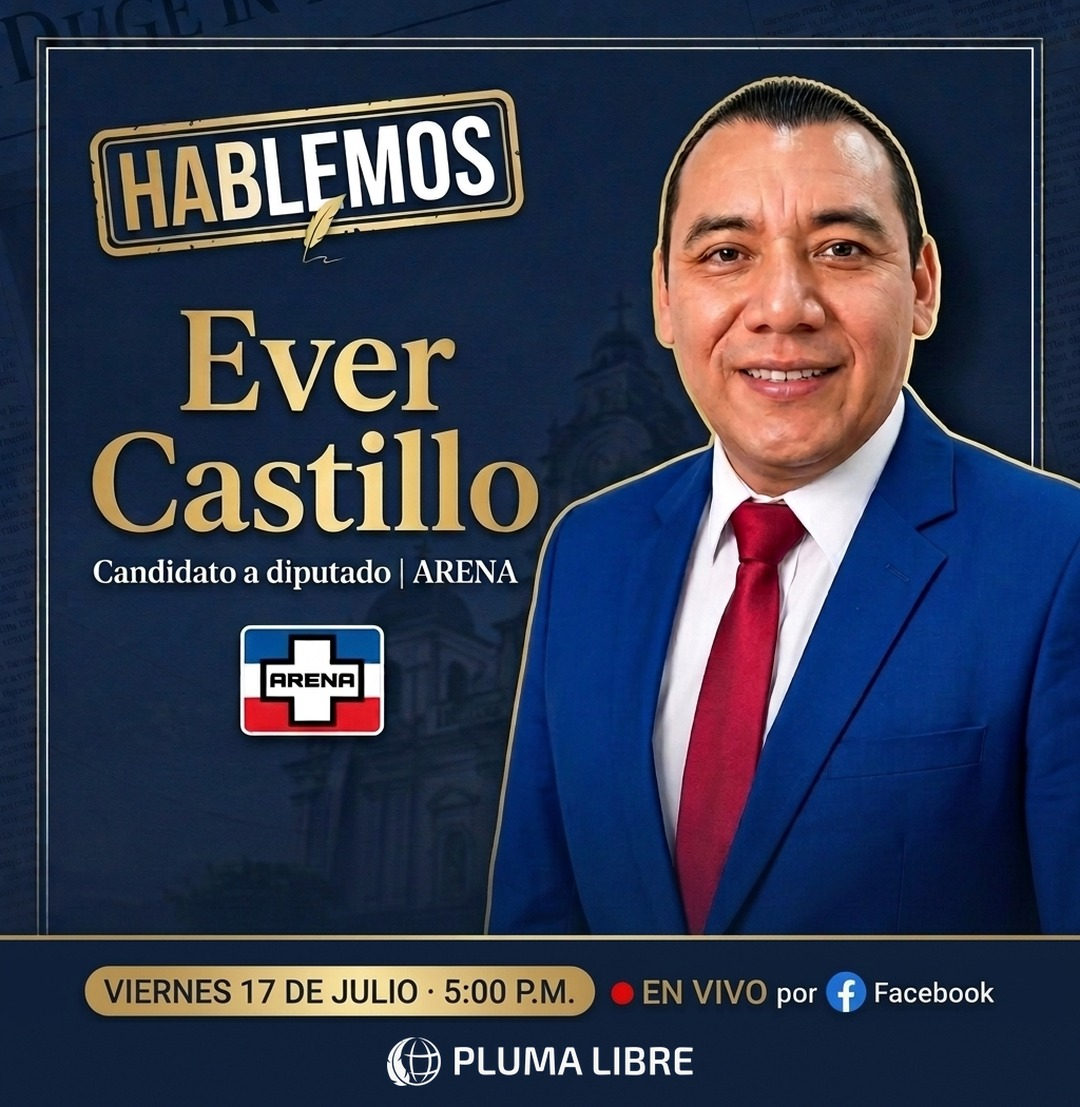
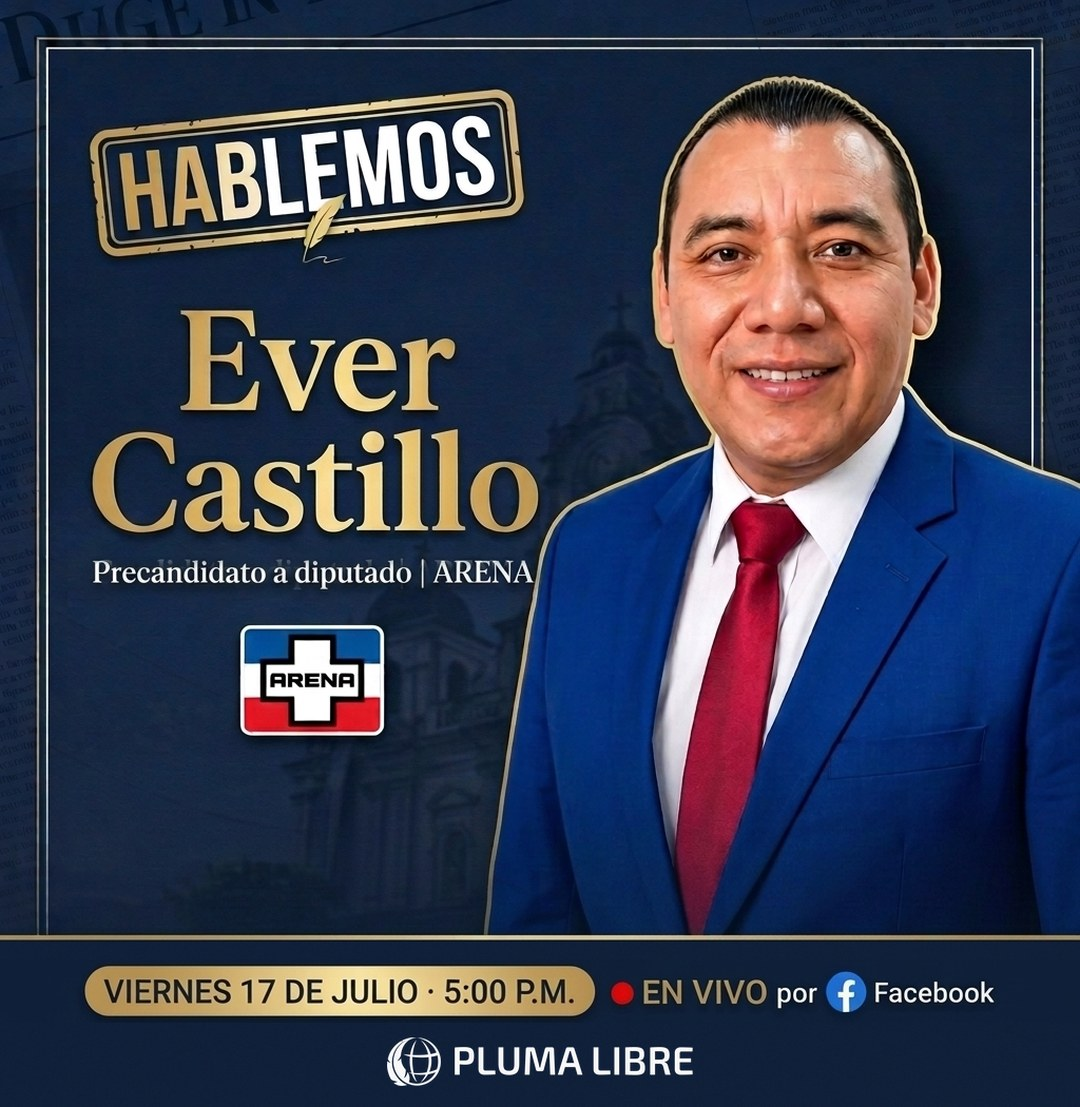
Corrige: Ever Castillo es precandidato (no candidato) — texto y arte
Claude-Session: https://claude.ai/code/session_015uJ6K41gRCDMSNBTyxZNf8

Changed region(s): [[0.0917, 0.4914, 0.4889, 0.5528]]

diff --git a/articulos/hablemos-ever-castillo-arena-entrevista-en-vivo.html b/articulos/hablemos-ever-castillo-arena-entrevista-en-vivo.html
@@ -1,7 +1,8 @@
-<!DOCTYPE html><html lang="es"><head><meta charset="UTF-8"><meta name="viewport" content="width=device-width,initial-scale=1.0"><title>«Hablemos» recibe a Ever Castillo, candidato a diputado de ARENA por Sonsonate — Pluma Libre</title><meta name="description" content="La entrevista se transmitirá en vivo este viernes 17 de julio, a las 5:00 p.m., por el Facebook de Pluma Libre; la audiencia podrá dejar sus preguntas en los comentarios."><meta name="theme-color" content="#081A41"><link rel="canonical" href="https://plumalibre.press/articulos/hablemos-ever-castillo-arena-entrevista-en-vivo.html"><meta property="og:type" content="article"><meta property="og:title" content="«Hablemos» recibe a Ever Castillo, candidato a diputado de ARENA por Sonsonate"><meta property="og:description" content="La entrevista se transmitirá en vivo este viernes 17 de julio, a las 5:00 p.m., por el Facebook de Pluma Libre; la audiencia podrá dejar sus preguntas en los comentarios."><meta property="og:image" content="https://plumalibre.press/assets/nota-politica-hablemos-ever.jpg"><meta property="og:site_name" content="Pluma Libre"><meta property="article:published_time" content="2026-07-16"><script type="application/ld+json">{"@context":"https://schema.org","@type":"NewsArticle","headline":"«Hablemos» recibe a Ever Castillo, candidato a diputado de ARENA por Sonsonate","datePublished":"2026-07-16","author":{"@type":"Organization","name":"Pluma Libre"},"publisher":{"@type":"Organization","name":"Pluma Libre","logo":{"@type":"ImageObject","url":"https://plumalibre.press/assets/logo-simbolo.png"}}}</script><script>(function(){try{var p=new URLSearchParams(location.search);if(p.get("pl_no_track")==="1"){localStorage.setItem("pl_no_track","1");history.replaceState({},"",location.pathname+location.hash);}if(p.get("pl_track")==="1"){localStorage.removeItem("pl_no_track");history.replaceState({},"",location.pathname+location.hash);}if(localStorage.getItem("pl_no_track")==="1"){window["ga-disable-G-TZRTJLP5KT"]=true;}}catch(e){}})();</script><script async src="https://www.googletagmanager.com/gtag/js?id=G-TZRTJLP5KT"></script><script>window.dataLayer=window.dataLayer||[];function gtag(){dataLayer.push(arguments);}gtag("js",new Date());gtag("config","G-TZRTJLP5KT");</script><link rel="icon" href="../assets/favicon.ico" sizes="any"><link rel="icon" type="image/png" sizes="32x32" href="../assets/favicon-32x32.png"><link rel="icon" type="image/png" sizes="192x192" href="../assets/favicon-192x192.png"><link rel="apple-touch-icon" href="../assets/apple-touch-icon.png"><link rel="manifest" href="/manifest.webmanifest"><meta name="apple-mobile-web-app-capable" content="yes"><meta name="apple-mobile-web-app-status-bar-style" content="black-translucent"><meta name="apple-mobile-web-app-title" content="Pluma Libre"><meta name="mobile-web-app-capable" content="yes"><link rel="preconnect" href="https://fonts.googleapis.com"><link rel="preconnect" href="https://fonts.gstatic.com" crossorigin><link href="https://fonts.googleapis.com/css2?family=Newsreader:opsz,wght@6..72,400;6..72,600;6..72,700&family=Outfit:wght@400;500;600;700&display=swap" rel="stylesheet"><link rel="stylesheet" href="../style.css"></head><body class="article-page"><div class="top-bar"><div class="wrap"><span id="fecha"></span><a href="https://www.facebook.com/plumalibre.press/" target="_blank" rel="noopener" aria-label="Facebook"><svg width="14" height="14" fill="currentColor" viewBox="0 0 24 24"><path d="M24 12.073c0-6.627-5.373-12-12-12s-12 5.373-12 12c0 5.99 4.388 10.954 10.125 11.854v-8.385H7.078v-3.47h3.047V9.43c0-3.007 1.792-4.669 4.533-4.669 1.312 0 2.686.235 2.686.235v2.953H15.83c-1.491 0-1.956.925-1.956 1.874v2.25h3.328l-.532 3.47h-2.796v8.385C19.612 23.027 24 18.062 24 12.073z"/></svg></a></div></div><header class="header"><div class="wrap"><a href="../index.html" class="logo"><img src="../assets/logo-simbolo.png" alt="Pluma Libre" class="logo-simbolo" width="40" height="40"><div class="logo-text"><h1><img src="../assets/logo-wordmark.png" alt="PLUMA LIBRE" class="logo-wordmark"></h1></div></a><button class="menu-btn" id="menuBtn" aria-label="Menú"><span></span><span></span><span></span></button><nav class="nav" id="nav"><ul><li><a href="../index.html">Inicio</a></li><li><a href="../secciones/politico.html">Política</a></li><li><a href="../secciones/economico.html">Economía</a></li><li><a href="../secciones/deportivo.html">Deportes</a></li><li><a href="../secciones/social.html">Social</a></li><li><a href="../secciones/religioso.html">Religión</a></li><li><a href="../secciones/cultural.html">Cultura</a></li><li><a href="../secciones/internacional.html">Internacional</a></li><li><a href="../sobre-nosotros.html">Nosotros</a></li></ul></nav></div></header><main><div class="wrap"><div class="article-header"><span class="badge badge-brand">Política</span><h1>«Hablemos» recibe a Ever Castillo, candidato a diputado de ARENA por Sonsonate</h1><p class="subtitle">La entrevista se transmitirá en vivo este viernes 17 de julio, a las 5:00 p.m., por el Facebook de Pluma Libre; la audiencia podrá dejar sus preguntas en los comentarios.</p><div class="article-meta"><strong>Por Pluma Libre</strong> · 16 de julio, 2026 · Sonsonate</div></div><figure class="article-img"><img src="../assets/nota-politica-hablemos-ever.jpg" alt="«Hablemos» recibe a Ever Castillo, candidato a diputado de ARENA por Sonsonate" loading="eager"><figcaption>Ever Castillo, candidato a diputado de ARENA por Sonsonate, será el invitado de «Hablemos». Imagen: Pluma Libre.</figcaption></figure><div class="article-body"><p>El espacio de entrevistas «Hablemos», de Pluma Libre, tendrá como invitado de esta semana a Ever Castillo, candidato a diputado por el partido ARENA en el departamento de Sonsonate. La conversación se transmitirá en vivo este viernes 17 de julio, a partir de las 5:00 de la tarde, en la página de Facebook del medio.</p>
+<!DOCTYPE html><html lang="es"><head><meta charset="UTF-8"><meta name="viewport" content="width=device-width,initial-scale=1.0"><title>«Hablemos» recibe a Ever Castillo, precandidato a diputado de ARENA por Sonsonate — Pluma Libre</title><meta name="description" content="La entrevista se transmitirá en vivo este viernes 17 de julio, a las 5:00 p.m., por el Facebook de Pluma Libre; la audiencia podrá dejar sus preguntas en los comentarios."><meta name="theme-color" content="#081A41"><link rel="canonical" href="https://plumalibre.press/articulos/hablemos-ever-castillo-arena-entrevista-en-vivo.html"><meta property="og:type" content="article"><meta property="og:title" content="«Hablemos» recibe a Ever Castillo, precandidato a diputado de ARENA por Sonsonate"><meta property="og:description" content="La entrevista se transmitirá en vivo este viernes 17 de julio, a las 5:00 p.m., por el Facebook de Pluma Libre; la audiencia podrá dejar sus preguntas en los comentarios."><meta property="og:image" content="https://plumalibre.press/assets/nota-politica-hablemos-ever-og.jpg">
+<meta property="og:image:width" content="1200">
+<meta property="og:image:height" content="630"><meta property="og:site_name" content="Pluma Libre"><meta property="article:published_time" content="2026-07-16"><script type="application/ld+json">{"@context":"https://schema.org","@type":"NewsArticle","headline":"«Hablemos» recibe a Ever Castillo, precandidato a diputado de ARENA por Sonsonate","datePublished":"2026-07-16","image":"https://plumalibre.press/assets/nota-politica-hablemos-ever.jpg","author":{"@type":"Organization","name":"Pluma Libre"},"publisher":{"@type":"Organization","name":"Pluma Libre","logo":{"@type":"ImageObject","url":"https://plumalibre.press/assets/logo-simbolo.png"}}}</script><script async src="https://www.googletagmanager.com/gtag/js?id=G-TZRTJLP5KT"></script><script>window.dataLayer=window.dataLayer||[];function gtag(){dataLayer.push(arguments);}gtag("js",new Date());gtag("config","G-TZRTJLP5KT");</script><link rel="icon" href="../assets/favicon.ico" sizes="any"><link rel="icon" type="image/png" sizes="32x32" href="../assets/favicon-32x32.png"><link rel="icon" type="image/png" sizes="192x192" href="../assets/favicon-192x192.png"><link rel="apple-touch-icon" href="../assets/apple-touch-icon.png"><link rel="manifest" href="/manifest.webmanifest"><meta name="apple-mobile-web-app-capable" content="yes"><meta name="apple-mobile-web-app-status-bar-style" content="black-translucent"><meta name="apple-mobile-web-app-title" content="Pluma Libre"><meta name="mobile-web-app-capable" content="yes"><link rel="preconnect" href="https://fonts.googleapis.com"><link rel="preconnect" href="https://fonts.gstatic.com" crossorigin><link href="https://fonts.googleapis.com/css2?family=Newsreader:opsz,wght@6..72,400;6..72,600;6..72,700&family=Outfit:wght@400;500;600;700&display=swap" rel="stylesheet"><link rel="stylesheet" href="../style.css"></head><body class="article-page"><div class="top-bar"><div class="wrap"><span id="fecha"></span><a href="https://www.facebook.com/plumalibre.press/" target="_blank" rel="noopener" aria-label="Facebook"><svg width="14" height="14" fill="currentColor" viewBox="0 0 24 24"><path d="M24 12.073c0-6.627-5.373-12-12-12s-12 5.373-12 12c0 5.99 4.388 10.954 10.125 11.854v-8.385H7.078v-3.47h3.047V9.43c0-3.007 1.792-4.669 4.533-4.669 1.312 0 2.686.235 2.686.235v2.953H15.83c-1.491 0-1.956.925-1.956 1.874v2.25h3.328l-.532 3.47h-2.796v8.385C19.612 23.027 24 18.062 24 12.073z"/></svg></a></div></div><header class="header"><div class="wrap"><a href="../index.html" class="logo"><img src="../assets/logo-simbolo.png" alt="Pluma Libre" class="logo-simbolo" width="40" height="40"><div class="logo-text"><h1><img src="../assets/logo-wordmark.png" alt="PLUMA LIBRE" class="logo-wordmark"></h1></div></a><button class="menu-btn" id="menuBtn" aria-label="Menú"><span></span><span></span><span></span></button><nav class="nav" id="nav"><ul><li><a href="../index.html">Inicio</a></li><li><a href="../secciones/politico.html">Política</a></li><li><a href="../secciones/economico.html">Economía</a></li><li><a href="../secciones/deportivo.html">Deportes</a></li><li><a href="../secciones/social.html">Social</a></li><li><a href="../secciones/religioso.html">Religión</a></li><li><a href="../secciones/cultural.html">Cultura</a></li><li><a href="../secciones/internacional.html">Internacional</a></li><li><a href="../sobre-nosotros.html">Nosotros</a></li></ul></nav></div></header><main><div class="wrap"><div class="article-header"><span class="badge badge-brand">Política</span><h1>«Hablemos» recibe a Ever Castillo, precandidato a diputado de ARENA por Sonsonate</h1><p class="subtitle">La entrevista se transmitirá en vivo este viernes 17 de julio, a las 5:00 p.m., por el Facebook de Pluma Libre; la audiencia podrá dejar sus preguntas en los comentarios.</p><div class="article-meta"><strong>Por Pluma Libre</strong> · 16 de julio, 2026 · Sonsonate</div></div><figure class="article-img"><img src="../assets/nota-politica-hablemos-ever.jpg" alt="Arte promocional de la entrevista Hablemos con Ever Castillo" loading="eager"><figcaption>Ever Castillo, precandidato a diputado de ARENA por Sonsonate, será el invitado de «Hablemos». Imagen: Pluma Libre.</figcaption></figure><div class="article-body"><p>El espacio de entrevistas «Hablemos», de Pluma Libre, tendrá como invitado de esta semana a Ever Castillo, precandidato a diputado por el partido ARENA en el departamento de Sonsonate. La conversación se transmitirá en vivo este viernes 17 de julio, a partir de las 5:00 de la tarde, en la página de Facebook del medio.</p>
 <p>Durante la charla se abordarán su perfil, las razones de su aspiración legislativa y su lectura de los principales retos del departamento, de cara a las elecciones de 2027.</p>
-
+<aside class="pl-ad pl-ad-sobria pl-ad--banner-b" role="complementary" aria-label="Contenido publicitario" hidden><span class="pl-ad-label">Publicidad</span><div class="pl-ad-frame"><a href="" target="_blank" rel="noopener nofollow sponsored" aria-label="Ir al sitio del anunciante — se abre en una pestaña nueva"><img class="pl-ad-img-leaderboard" src="" width="728" height="90" alt=""><img class="pl-ad-img-mobile" src="" width="320" height="100" alt=""></a></div></aside>
 <p>«Hablemos» busca acercar a la audiencia, en formato de conversación y sin intermediarios, a quienes aspiran a cargos de elección popular. Por el espacio ya han pasado Wil Morán Jr., del PDC, y Manuel Gil, del FMLN, ambos aspirantes a la Asamblea Legislativa por Sonsonate.</p>
 <p>La participación del público es parte del formato: durante la transmisión, los espectadores podrán dejar sus preguntas en los comentarios y una selección será trasladada al invitado en vivo.</p>
-<aside class="pl-ad pl-ad-sobria pl-ad--banner-b" role="complementary" aria-label="Contenido publicitario" hidden><span class="pl-ad-label">Publicidad</span><div class="pl-ad-frame"><a href="" target="_blank" rel="noopener nofollow sponsored" aria-label="Ir al sitio del anunciante — se abre en una pestaña nueva"><img class="pl-ad-img-leaderboard" src="" width="728" height="90" alt=""><img class="pl-ad-img-mobile" src="" width="320" height="100" alt=""></a></div></aside>
-<p><em>La entrevista podrá verse este viernes 17 de julio, a las 5:00 p.m., en la página de Facebook de Pluma Libre.</em></p></div><section class="follow-us"><p>Seguinos para más noticias de Sonsonate</p><div class="social-icons"><a href="https://www.facebook.com/plumalibre.press/" target="_blank" rel="noopener" aria-label="Facebook"><svg viewBox="0 0 24 24" width="1.25em" height="1.25em" fill="currentColor" aria-hidden="true"><path d="M12 0C5.373 0 0 5.373 0 12c0 6.016 4.432 10.984 10.206 11.852V15.18H7.237V12h2.969V9.797c0-3.504 1.67-5.033 4.58-5.033 1.394 0 2.131.103 2.48.15v2.73h-1.97c-1.235 0-1.667 1.17-1.667 2.49V12h3.605l-.489 3.18h-3.117v8.697C19.482 23.009 24 18.006 24 12c0-6.627-5.373-12-12-12z"/></svg></a><a href="https://www.instagram.com/plumalibrepress/" target="_blank" rel="noopener" aria-label="Instagram"><svg viewBox="0 0 24 24" width="1.25em" height="1.25em" fill="currentColor" aria-hidden="true"><path d="M12 2.163c3.204 0 3.584.012 4.85.07 3.252.148 4.771 1.691 4.919 4.919.058 1.265.069 1.645.069 4.849 0 3.205-.012 3.584-.069 4.849-.149 3.225-1.664 4.771-4.919 4.919-1.266.058-1.644.07-4.85.07-3.204 0-3.584-.012-4.849-.07-3.26-.149-4.771-1.699-4.919-4.92-.058-1.265-.07-1.644-.07-4.849 0-3.204.013-3.583.07-4.849.149-3.227 1.664-4.771 4.919-4.919 1.266-.057 1.645-.069 4.849-.069zM12 0C8.741 0 8.333.014 7.053.072 2.695.272.273 2.69.073 7.052.014 8.333 0 8.741 0 12c0 3.259.014 3.668.072 4.948.2 4.358 2.618 6.78 6.98 6.98C8.333 23.986 8.741 24 12 24c3.259 0 3.668-.014 4.948-.072 4.354-.2 6.782-2.618 6.979-6.98.059-1.28.073-1.689.073-4.948 0-3.259-.014-3.667-.072-4.947-.196-4.354-2.617-6.78-6.979-6.98C15.668.014 15.259 0 12 0zm0 5.838a6.162 6.162 0 100 12.324 6.162 6.162 0 000-12.324zM12 16a4 4 0 110-8 4 4 0 010 8zm6.406-11.845a1.44 1.44 0 100 2.881 1.44 1.44 0 000-2.881z"/></svg></a><a href="https://x.com/PlumaLibrePress" target="_blank" rel="noopener" aria-label="X"><svg viewBox="0 0 24 24" width="1.25em" height="1.25em" fill="currentColor" aria-hidden="true"><path d="M18.901 1.153h3.68l-8.04 9.19L24 22.846h-7.406l-5.8-7.584-6.638 7.584H.474l8.6-9.83L0 1.154h7.594l5.243 6.932ZM17.61 20.644h2.039L6.486 3.24H4.298Z"/></svg></a><a href="https://www.youtube.com/@PlumaLibre-k5z" target="_blank" rel="noopener" aria-label="YouTube"><svg viewBox="0 0 24 24" width="1.25em" height="1.25em" fill="currentColor" aria-hidden="true"><path d="M23.498 6.186a3.016 3.016 0 0 0-2.122-2.136C19.505 3.545 12 3.545 12 3.545s-7.505 0-9.377.505A3.017 3.017 0 0 0 .502 6.186C0 8.07 0 12 0 12s0 3.93.502 5.814a3.016 3.016 0 0 0 2.122 2.136c1.871.505 9.376.505 9.376.505s7.505 0 9.377-.505a3.015 3.015 0 0 0 2.122-2.136C24 15.93 24 12 24 12s0-3.93-.502-5.814zM9.545 15.568V8.432L15.818 12l-6.273 3.568z"/></svg></a><a href="https://wa.me/50373836622?text=Hola%20Pluma%20Libre" target="_blank" rel="noopener" aria-label="WhatsApp"><svg viewBox="0 0 24 24" width="1.25em" height="1.25em" fill="currentColor" aria-hidden="true"><path d="M17.472 14.382c-.297-.149-1.758-.867-2.03-.967-.273-.099-.471-.148-.67.15-.197.297-.767.966-.94 1.164-.173.199-.347.223-.644.075-.297-.15-1.255-.463-2.39-1.475-.883-.788-1.48-1.761-1.653-2.059-.173-.297-.018-.458.13-.606.134-.133.298-.347.446-.52.149-.174.198-.298.298-.497.099-.198.05-.371-.025-.52-.075-.149-.669-1.612-.916-2.207-.242-.579-.487-.5-.669-.51-.173-.008-.371-.01-.57-.01-.198 0-.52.074-.792.372-.272.297-1.04 1.016-1.04 2.479 0 1.462 1.065 2.875 1.213 3.074.149.198 2.096 3.2 5.077 4.487.709.306 1.262.489 1.694.625.712.227 1.36.195 1.871.118.571-.085 1.758-.719 2.006-1.413.248-.694.248-1.289.173-1.413-.074-.124-.272-.198-.57-.347m-5.421 7.403h-.004a9.87 9.87 0 01-5.031-1.378l-.361-.214-3.741.982.998-3.648-.235-.374a9.86 9.86 0 01-1.51-5.26c.001-5.45 4.436-9.884 9.888-9.884 2.64 0 5.122 1.03 6.988 2.898a9.825 9.825 0 012.893 6.994c-.003 5.45-4.437 9.884-9.885 9.884m8.413-18.297A11.815 11.815 0 0012.05 0C5.495 0 .16 5.335.157 11.892c0 2.096.547 4.142 1.588 5.945L.057 24l6.305-1.654a11.882 11.882 0 005.683 1.448h.005c6.554 0 11.89-5.335 11.893-11.893a11.821 11.821 0 00-3.48-8.413Z"/></svg></a></div></section><section class="contact-cta"><p>¿Tenés una noticia, una denuncia o querés anunciarte con nosotros?</p><p><a href="mailto:contacto@plumalibre.press">contacto@plumalibre.press</a> · <a href="../sobre-nosotros.html#contactoForm">Escribinos aquí</a></p></section><div class="share"><p class="share-label">Compartir</p><div class="share-btns"><a class="fb" id="shareFb" href="#" target="_blank">Facebook</a><a class="wa" id="shareWa" href="#" target="_blank">WhatsApp</a></div></div></div></main><footer class="footer"><div class="wrap"><div class="footer-grid"><div><h4>Pluma Libre</h4><p>Medio Informativo de Interés Local, Nacional e Internacional.</p></div><div><h4>Secciones</h4><ul><li><a href="../secciones/politico.html">Política</a></li><li><a href="../secciones/economico.html">Economía</a></li><li><a href="../secciones/deportivo.html">Deportes</a></li><li><a href="../secciones/social.html">Social</a></li><li><a href="../secciones/religioso.html">Religión</a></li><li><a href="../secciones/cultural.html">Cultura</a></li><li><a href="../secciones/internacional.html">Internacional</a></li></ul></div><div><h4>Contacto</h4><p>Sonsonate, El Salvador</p></div></div><p class="footer-bottom">© 2026 Pluma Libre.</p></div></footer><script>const m=["enero","febrero","marzo","abril","mayo","junio","julio","agosto","septiembre","octubre","noviembre","diciembre"],dd=["Domingo","Lunes","Martes","Miércoles","Jueves","Viernes","Sábado"],h=new Date();document.getElementById("fecha").textContent=dd[h.getDay()]+", "+h.getDate()+" de "+m[h.getMonth()]+" de "+h.getFullYear();const mb=document.getElementById("menuBtn"),nv=document.getElementById("nav");mb.addEventListener("click",()=>{nv.classList.toggle("open");mb.classList.toggle("open")});document.querySelectorAll(".nav a").forEach(l=>l.addEventListener("click",()=>{nv.classList.remove("open");mb.classList.remove("open")}));const u=encodeURIComponent(location.href),t=encodeURIComponent(document.title);document.getElementById("shareFb").href="https://www.facebook.com/sharer/sharer.php?u="+u;document.getElementById("shareWa").href="https://api.whatsapp.com/send?text="+t+"%20"+u</script><script>(function(){async function loadBanners(){try{var r=await fetch("/banners.json?t="+Date.now(),{cache:"no-store"});if(!r.ok)return;var c=await r.json();var isUrl=function(u){return typeof u==="string"&&(/^https:\/\//i.test(u)||/^(mailto:|tel:)/i.test(u)||/^https:\/\/wa\.me\//i.test(u));};var isImg=function(u){return typeof u==="string"&&(/^https:\/\//i.test(u)||/^[A-Za-z0-9._\/-]+$/.test(u));};var ytId=function(u){if(!u)return null;var m=String(u).match(/(?:youtube\.com\/(?:watch\?v=|embed\/|v\/)|youtu\.be\/)([a-zA-Z0-9_-]{11})/);return m?m[1]:null;};var esc=function(s){return String(s||'').replace(/&/g,'&amp;').replace(/</g,'&lt;').replace(/>/g,'&gt;').replace(/"/g,'&quot;');};var abs=function(p){return /^https?:\/\//i.test(p)||(p&&p.charAt(0)==='/')?p:'/'+p;};var DEF_LOC={banner_a_home:'home_top',banner_b_nota:'nota_interno',banner_c_grid:'home_grid'};var bannerValido=function(b){if(!b||b.activo!==true||!isUrl(b.link))return false;var t=b.tipo||'imagen';if(t==='youtube')return !!ytId(b.imagen);return !!b.imagen&&isImg(b.imagen);};var locsDe=function(b,key){return Array.isArray(b.ubicaciones)?b.ubicaciones:[DEF_LOC[key]||'nota_interno'];};var pickFor=function(loc){var slots=[['banner_a_home',c.banner_a_home],['banner_b_nota',c.banner_b_nota],['banner_c_grid',c.banner_c_grid]];for(var i=0;i<slots.length;i++){if(bannerValido(slots[i][1])&&locsDe(slots[i][1],slots[i][0]).indexOf(loc)>=0)return slots[i][1];}var ind=Array.isArray(c.banners_grid_individuales)?c.banners_grid_individuales:[];for(var j=0;j<ind.length;j++){if(bannerValido(ind[j])&&(ind[j].ubicaciones||['home_grid']).indexOf(loc)>=0)return ind[j];}return null;};var renderEn=function(ad,b){var link=ad.querySelector('.pl-ad-frame a')||ad.querySelector('a');if(!link)return;var tipo=b.tipo||'imagen';link.href=b.link;if(tipo==='youtube'){var id=ytId(b.imagen);link.innerHTML='<iframe src="https://www.youtube.com/embed/'+id+'?autoplay=1&mute=1&loop=1&playlist='+id+'&controls=0&modestbranding=1&playsinline=1" allow="autoplay; encrypted-media" allowfullscreen style="display:block;width:100%;height:100%;border:0"></iframe>';}else if(tipo==='video'){link.innerHTML='<video src="'+esc(abs(b.imagen))+'" autoplay loop muted playsinline style="display:block;width:100%;height:100%;object-fit:cover"></video>';}else{var imgs=link.querySelectorAll('img');if(imgs.length)imgs.forEach(function(i){i.src=abs(b.imagen);if(b.alt)i.alt=b.alt;});else link.innerHTML='<img src="'+esc(abs(b.imagen))+'" alt="'+esc(b.alt||'')+'" style="display:block;width:100%;height:100%;object-fit:contain">';}ad.removeAttribute('hidden');};var bNota=pickFor('nota_interno');if(bNota)document.querySelectorAll('.pl-ad--banner-b').forEach(function(ad){renderEn(ad,bNota);});}catch(e){}}if(document.querySelector('.pl-ad')){if(document.readyState==='loading')document.addEventListener('DOMContentLoaded',loadBanners);else loadBanners();}})();</script><script>addEventListener("scroll",function(){var h=document.querySelector(".header");h&&h.classList.toggle("scrolled",scrollY>20)},{passive:true});</script><script src="/assets/install.js" defer></script><script>if("serviceWorker" in navigator){addEventListener("load",function(){navigator.serviceWorker.register("/sw.js").catch(function(){});});}</script></body></html>
+<p><em>La entrevista podrá verse este viernes 17 de julio, a las 5:00 p.m., en la página de Facebook de Pluma Libre.</em></p></div><section class="follow-us"><p>Seguinos para más noticias de Sonsonate</p><div class="social-icons"><a href="https://www.facebook.com/plumalibre.press/" target="_blank" rel="noopener" aria-label="Facebook"><svg viewBox="0 0 24 24" width="1.25em" height="1.25em" fill="currentColor" aria-hidden="true"><path d="M12 0C5.373 0 0 5.373 0 12c0 6.016 4.432 10.984 10.206 11.852V15.18H7.237V12h2.969V9.797c0-3.504 1.67-5.033 4.58-5.033 1.394 0 2.131.103 2.48.15v2.73h-1.97c-1.235 0-1.667 1.17-1.667 2.49V12h3.605l-.489 3.18h-3.117v8.697C19.482 23.009 24 18.006 24 12c0-6.627-5.373-12-12-12z"/></svg></a><a href="https://www.instagram.com/plumalibrepress/" target="_blank" rel="noopener" aria-label="Instagram"><svg viewBox="0 0 24 24" width="1.25em" height="1.25em" fill="currentColor" aria-hidden="true"><path d="M12 2.163c3.204 0 3.584.012 4.85.07 3.252.148 4.771 1.691 4.919 4.919.058 1.265.069 1.645.069 4.849 0 3.205-.012 3.584-.069 4.849-.149 3.225-1.664 4.771-4.919 4.919-1.266.058-1.644.07-4.85.07-3.204 0-3.584-.012-4.849-.07-3.26-.149-4.771-1.699-4.919-4.92-.058-1.265-.07-1.644-.07-4.849 0-3.204.013-3.583.07-4.849.149-3.227 1.664-4.771 4.919-4.919 1.266-.057 1.645-.069 4.849-.069zM12 0C8.741 0 8.333.014 7.053.072 2.695.272.273 2.69.073 7.052.014 8.333 0 8.741 0 12c0 3.259.014 3.668.072 4.948.2 4.358 2.618 6.78 6.98 6.98C8.333 23.986 8.741 24 12 24c3.259 0 3.668-.014 4.948-.072 4.354-.2 6.782-2.618 6.979-6.98.059-1.28.073-1.689.073-4.948 0-3.259-.014-3.667-.072-4.947-.196-4.354-2.617-6.78-6.979-6.98C15.668.014 15.259 0 12 0zm0 5.838a6.162 6.162 0 100 12.324 6.162 6.162 0 000-12.324zM12 16a4 4 0 110-8 4 4 0 010 8zm6.406-11.845a1.44 1.44 0 100 2.881 1.44 1.44 0 000-2.881z"/></svg></a><a href="https://x.com/PlumaLibrePress" target="_blank" rel="noopener" aria-label="X"><svg viewBox="0 0 24 24" width="1.25em" height="1.25em" fill="currentColor" aria-hidden="true"><path d="M18.901 1.153h3.68l-8.04 9.19L24 22.846h-7.406l-5.8-7.584-6.638 7.584H.474l8.6-9.83L0 1.154h7.594l5.243 6.932ZM17.61 20.644h2.039L6.486 3.24H4.298Z"/></svg></a><a href="https://www.youtube.com/@PlumaLibre-k5z" target="_blank" rel="noopener" aria-label="YouTube"><svg viewBox="0 0 24 24" width="1.25em" height="1.25em" fill="currentColor" aria-hidden="true"><path d="M23.498 6.186a3.016 3.016 0 0 0-2.122-2.136C19.505 3.545 12 3.545 12 3.545s-7.505 0-9.377.505A3.017 3.017 0 0 0 .502 6.186C0 8.07 0 12 0 12s0 3.93.502 5.814a3.016 3.016 0 0 0 2.122 2.136c1.871.505 9.376.505 9.376.505s7.505 0 9.377-.505a3.015 3.015 0 0 0 2.122-2.136C24 15.93 24 12 24 12s0-3.93-.502-5.814zM9.545 15.568V8.432L15.818 12l-6.273 3.568z"/></svg></a><a href="https://wa.me/50373836622?text=Hola%20Pluma%20Libre" target="_blank" rel="noopener" aria-label="WhatsApp"><svg viewBox="0 0 24 24" width="1.25em" height="1.25em" fill="currentColor" aria-hidden="true"><path d="M17.472 14.382c-.297-.149-1.758-.867-2.03-.967-.273-.099-.471-.148-.67.15-.197.297-.767.966-.94 1.164-.173.199-.347.223-.644.075-.297-.15-1.255-.463-2.39-1.475-.883-.788-1.48-1.761-1.653-2.059-.173-.297-.018-.458.13-.606.134-.133.298-.347.446-.52.149-.174.198-.298.298-.497.099-.198.05-.371-.025-.52-.075-.149-.669-1.612-.916-2.207-.242-.579-.487-.5-.669-.51-.173-.008-.371-.01-.57-.01-.198 0-.52.074-.792.372-.272.297-1.04 1.016-1.04 2.479 0 1.462 1.065 2.875 1.213 3.074.149.198 2.096 3.2 5.077 4.487.709.306 1.262.489 1.694.625.712.227 1.36.195 1.871.118.571-.085 1.758-.719 2.006-1.413.248-.694.248-1.289.173-1.413-.074-.124-.272-.198-.57-.347m-5.421 7.403h-.004a9.87 9.87 0 01-5.031-1.378l-.361-.214-3.741.982.998-3.648-.235-.374a9.86 9.86 0 01-1.51-5.26c.001-5.45 4.436-9.884 9.888-9.884 2.64 0 5.122 1.03 6.988 2.898a9.825 9.825 0 012.893 6.994c-.003 5.45-4.437 9.884-9.885 9.884m8.413-18.297A11.815 11.815 0 0012.05 0C5.495 0 .16 5.335.157 11.892c0 2.096.547 4.142 1.588 5.945L.057 24l6.305-1.654a11.882 11.882 0 005.683 1.448h.005c6.554 0 11.89-5.335 11.893-11.893a11.821 11.821 0 00-3.48-8.413Z"/></svg></a></div></section><div class="share"><p class="share-label">Compartir</p><div class="share-btns"><a class="fb" id="shareFb" href="#" target="_blank">Facebook</a><a class="wa" id="shareWa" href="#" target="_blank">WhatsApp</a></div></div></div></main><footer class="footer"><div class="wrap"><div class="footer-grid"><div><h4>Pluma Libre</h4><p>Medio Informativo de Interés Local, Nacional e Internacional.</p></div><div><h4>Secciones</h4><ul><li><a href="../secciones/politico.html">Política</a></li><li><a href="../secciones/economico.html">Economía</a></li><li><a href="../secciones/deportivo.html">Deportes</a></li><li><a href="../secciones/social.html">Social</a></li><li><a href="../secciones/religioso.html">Religión</a></li><li><a href="../secciones/cultural.html">Cultura</a></li><li><a href="../secciones/internacional.html">Internacional</a></li></ul></div><div><h4>Contacto</h4><p>Sonsonate, El Salvador</p></div></div><p class="footer-bottom">© 2026 Pluma Libre.</p></div></footer><script>const m=["enero","febrero","marzo","abril","mayo","junio","julio","agosto","septiembre","octubre","noviembre","diciembre"],dd=["Domingo","Lunes","Martes","Miércoles","Jueves","Viernes","Sábado"],h=new Date();document.getElementById("fecha").textContent=dd[h.getDay()]+", "+h.getDate()+" de "+m[h.getMonth()]+" de "+h.getFullYear();const mb=document.getElementById("menuBtn"),nv=document.getElementById("nav");mb.addEventListener("click",()=>{nv.classList.toggle("open");mb.classList.toggle("open")});document.querySelectorAll(".nav a").forEach(l=>l.addEventListener("click",()=>{nv.classList.remove("open");mb.classList.remove("open")}));const u=encodeURIComponent(location.href),t=encodeURIComponent(document.title);document.getElementById("shareFb").href="https://www.facebook.com/sharer/sharer.php?u="+u;document.getElementById("shareWa").href="https://api.whatsapp.com/send?text="+t+"%20"+u</script><script>(function(){async function loadBanners(){try{var r=await fetch("/banners.json?t="+Date.now(),{cache:"no-store"});if(!r.ok)return;var c=await r.json();var isUrl=function(u){return typeof u==="string"&&(/^https:\/\//i.test(u)||/^(mailto:|tel:)/i.test(u)||/^https:\/\/wa\.me\//i.test(u));};var isImg=function(u){return typeof u==="string"&&(/^https:\/\//i.test(u)||/^[A-Za-z0-9._\/-]+$/.test(u));};var ytId=function(u){if(!u)return null;var m=String(u).match(/(?:youtube\.com\/(?:watch\?v=|embed\/|v\/)|youtu\.be\/)([a-zA-Z0-9_-]{11})/);return m?m[1]:null;};var esc=function(s){return String(s||'').replace(/&/g,'&amp;').replace(/</g,'&lt;').replace(/>/g,'&gt;').replace(/"/g,'&quot;');};var abs=function(p){return /^https?:\/\//i.test(p)||(p&&p.charAt(0)==='/')?p:'/'+p;};var DEF_LOC={banner_a_home:'home_top',banner_b_nota:'nota_interno',banner_c_grid:'home_grid'};var bannerValido=function(b){if(!b||b.activo!==true||!isUrl(b.link))return false;var t=b.tipo||'imagen';if(t==='youtube')return !!ytId(b.imagen);return !!b.imagen&&isImg(b.imagen);};var locsDe=function(b,key){return Array.isArray(b.ubicaciones)?b.ubicaciones:[DEF_LOC[key]||'nota_interno'];};var pickFor=function(loc){var slots=[['banner_a_home',c.banner_a_home],['banner_b_nota',c.banner_b_nota],['banner_c_grid',c.banner_c_grid]];for(var i=0;i<slots.length;i++){if(bannerValido(slots[i][1])&&locsDe(slots[i][1],slots[i][0]).indexOf(loc)>=0)return slots[i][1];}var ind=Array.isArray(c.banners_grid_individuales)?c.banners_grid_individuales:[];for(var j=0;j<ind.length;j++){if(bannerValido(ind[j])&&(ind[j].ubicaciones||['home_grid']).indexOf(loc)>=0)return ind[j];}return null;};var renderEn=function(ad,b){var link=ad.querySelector('.pl-ad-frame a')||ad.querySelector('a');if(!link)return;var tipo=b.tipo||'imagen';link.href=b.link;if(tipo==='youtube'){var id=ytId(b.imagen);link.innerHTML='<iframe src="https://www.youtube.com/embed/'+id+'?autoplay=1&mute=1&loop=1&playlist='+id+'&controls=0&modestbranding=1&playsinline=1" allow="autoplay; encrypted-media" allowfullscreen style="display:block;width:100%;height:100%;border:0"></iframe>';}else if(tipo==='video'){link.innerHTML='<video src="'+esc(abs(b.imagen))+'" autoplay loop muted playsinline style="display:block;width:100%;height:100%;object-fit:cover"></video>';}else{var imgs=link.querySelectorAll('img');if(imgs.length)imgs.forEach(function(i){i.src=abs(b.imagen);if(b.alt)i.alt=b.alt;});else link.innerHTML='<img src="'+esc(abs(b.imagen))+'" alt="'+esc(b.alt||'')+'" style="display:block;width:100%;height:100%;object-fit:contain">';}ad.removeAttribute('hidden');};var bNota=pickFor('nota_interno');if(bNota)document.querySelectorAll('.pl-ad--banner-b').forEach(function(ad){renderEn(ad,bNota);});}catch(e){}}if(document.querySelector('.pl-ad')){if(document.readyState==='loading')document.addEventListener('DOMContentLoaded',loadBanners);else loadBanners();}})();</script><script>addEventListener("scroll",function(){var h=document.querySelector(".header");h&&h.classList.toggle("scrolled",scrollY>20)},{passive:true});</script><script src="/assets/install.js" defer></script><script>if("serviceWorker" in navigator){addEventListener("load",function(){navigator.serviceWorker.register("/sw.js").catch(function(){});});}</script></body></html>

diff --git a/index.html b/index.html
@@ -98,7 +98,6 @@
         <div class="home-hero-grid">
           <article class="home-hero-principal"><div class="img"><img src="assets/106203.jpg" alt="" loading="eager"></div><div class="body"><span class="kicker">Política</span><h2><a href="articulos/messi-y-lamine-yamal-el-duelo-de-generaciones-que.html">Messi y Lamine Yamal: el duelo de generaciones que definirá la final del Mundial 2026</a></h2><p class="meta">Por Pluma Libre · 15 de julio, 2026</p></div></article>
           <aside class="home-hero-sidebar">
-            <article class="home-hero-secondary"><div class="thumb"><img src="assets/nota-politica-hablemos-ever.jpg" alt="" loading="lazy"></div><div class="info"><span class="kicker">Política</span><h3><a href="articulos/hablemos-ever-castillo-arena-entrevista-en-vivo.html">«Hablemos» recibe a Ever Castillo, candidato a diputado de ARENA por Sonsonate</a></h3></div></article>
             <article class="home-hero-secondary"><div class="thumb"><img src="assets/duelo-mariano-rolando.jpg" alt="" loading="lazy"></div><div class="info"><span class="kicker">Social</span><h3><a href="articulos/pluma-libre-despide-a-mariano-galan-cronista-incan.html">Pluma Libre despide a Mariano Galán, cronista incansable y defensor de la libertad de prensa</a></h3></div></article>
           </aside>
         </div>
@@ -122,7 +121,7 @@
         <h2>Últimas Noticias</h2>
       </div>
       <div class="news-grid">
-        <article class="card"><div class="thumb"><img src="assets/nota-politica-hablemos-ever.jpg" alt="" loading="lazy"></div><div class="info"><span class="badge-sm">Política</span><h3><a href="articulos/hablemos-ever-castillo-arena-entrevista-en-vivo.html">«Hablemos» recibe a Ever Castillo, candidato a diputado de ARENA por Sonsonate</a></h3><p class="meta">16 de julio, 2026</p></div></article>
+        <article class="card"><div class="thumb"><img src="assets/nota-politica-hablemos-ever.jpg" alt="" loading="lazy"></div><div class="info"><span class="badge-sm">Política</span><h3><a href="articulos/hablemos-ever-castillo-arena-entrevista-en-vivo.html">«Hablemos» recibe a Ever Castillo, precandidato a diputado de ARENA por Sonsonate</a></h3><p class="meta">16 de julio, 2026</p></div></article>
         <article class="card"><div class="thumb"><img src="assets/106203.jpg" alt="" loading="lazy"></div><div class="info"><span class="badge-sm">Política</span><h3><a href="articulos/messi-y-lamine-yamal-el-duelo-de-generaciones-que.html">Messi y Lamine Yamal: el duelo de generaciones que definirá la final del Mundial 2026</a></h3><p class="meta">15 de julio, 2026</p></div></article>
         <article class="card"><div class="thumb"><img src="assets/duelo-mariano-rolando.jpg" alt="" loading="lazy"></div><div class="info"><span class="badge-sm">Social</span><h3><a href="articulos/pluma-libre-despide-a-mariano-galan-cronista-incan.html">Pluma Libre despide a Mariano Galán, cronista incansable y defensor de la libertad de prensa</a></h3><p class="meta">14 de julio, 2026</p></div></article>
         <article class="card"><div class="thumb"><img src="assets/espana-final-mundial.jpg" alt="" loading="lazy"></div><div class="info"><span class="badge-sm">Deportes</span><h3><a href="articulos/espana-es-finalista-del-mundial-2026.html">España es finalista del Mundial 2026</a></h3><p class="meta">14 de julio, 2026</p></div></article>

diff --git a/secciones/politico.html b/secciones/politico.html
@@ -40,9 +40,9 @@
   </div></header>
   <main><div class="wrap"><div class="section-head"><h2>Política</h2></div>
     <article class="card-lg">
-      <div class="img-wrap"><img src="../assets/nota-politica-hablemos-ever.jpg" alt="«Hablemos» recibe a Ever Castillo, candidato a diputado de ARENA por Sonsonate" loading="lazy"></div>
-      <h3><a href="../articulos/hablemos-ever-castillo-arena-entrevista-en-vivo.html">«Hablemos» recibe a Ever Castillo, candidato a diputado de ARENA por Sonsonate</a></h3>
-      <p class="excerpt">La entrevista se transmitirá en vivo este viernes 17 de julio, a las 5:00 p.m., por el Facebook de Pluma Libre; la audiencia podrá dejar sus preguntas en los comentarios.</p>
+      <div class="img-wrap"><img src="../assets/nota-politica-hablemos-ever.jpg" alt="«Hablemos» recibe a Ever Castillo, precandidato a diputado de ARENA por Sonsonate" loading="lazy"></div>
+      <h3><a href="../articulos/hablemos-ever-castillo-arena-entrevista-en-vivo.html">«Hablemos» recibe a Ever Castillo, precandidato a diputado de ARENA por Sonsonate</a></h3>
+      <p class="excerpt">La entrevista se transmitirá en vivo este viernes 17 de julio, a las 5:00 p.m., por el Facebook del medio; el público podrá dejar sus preguntas.</p>
       <p class="meta">Por Pluma Libre · 16 de julio, 2026</p>
     </article>
     <article class="card-lg">
